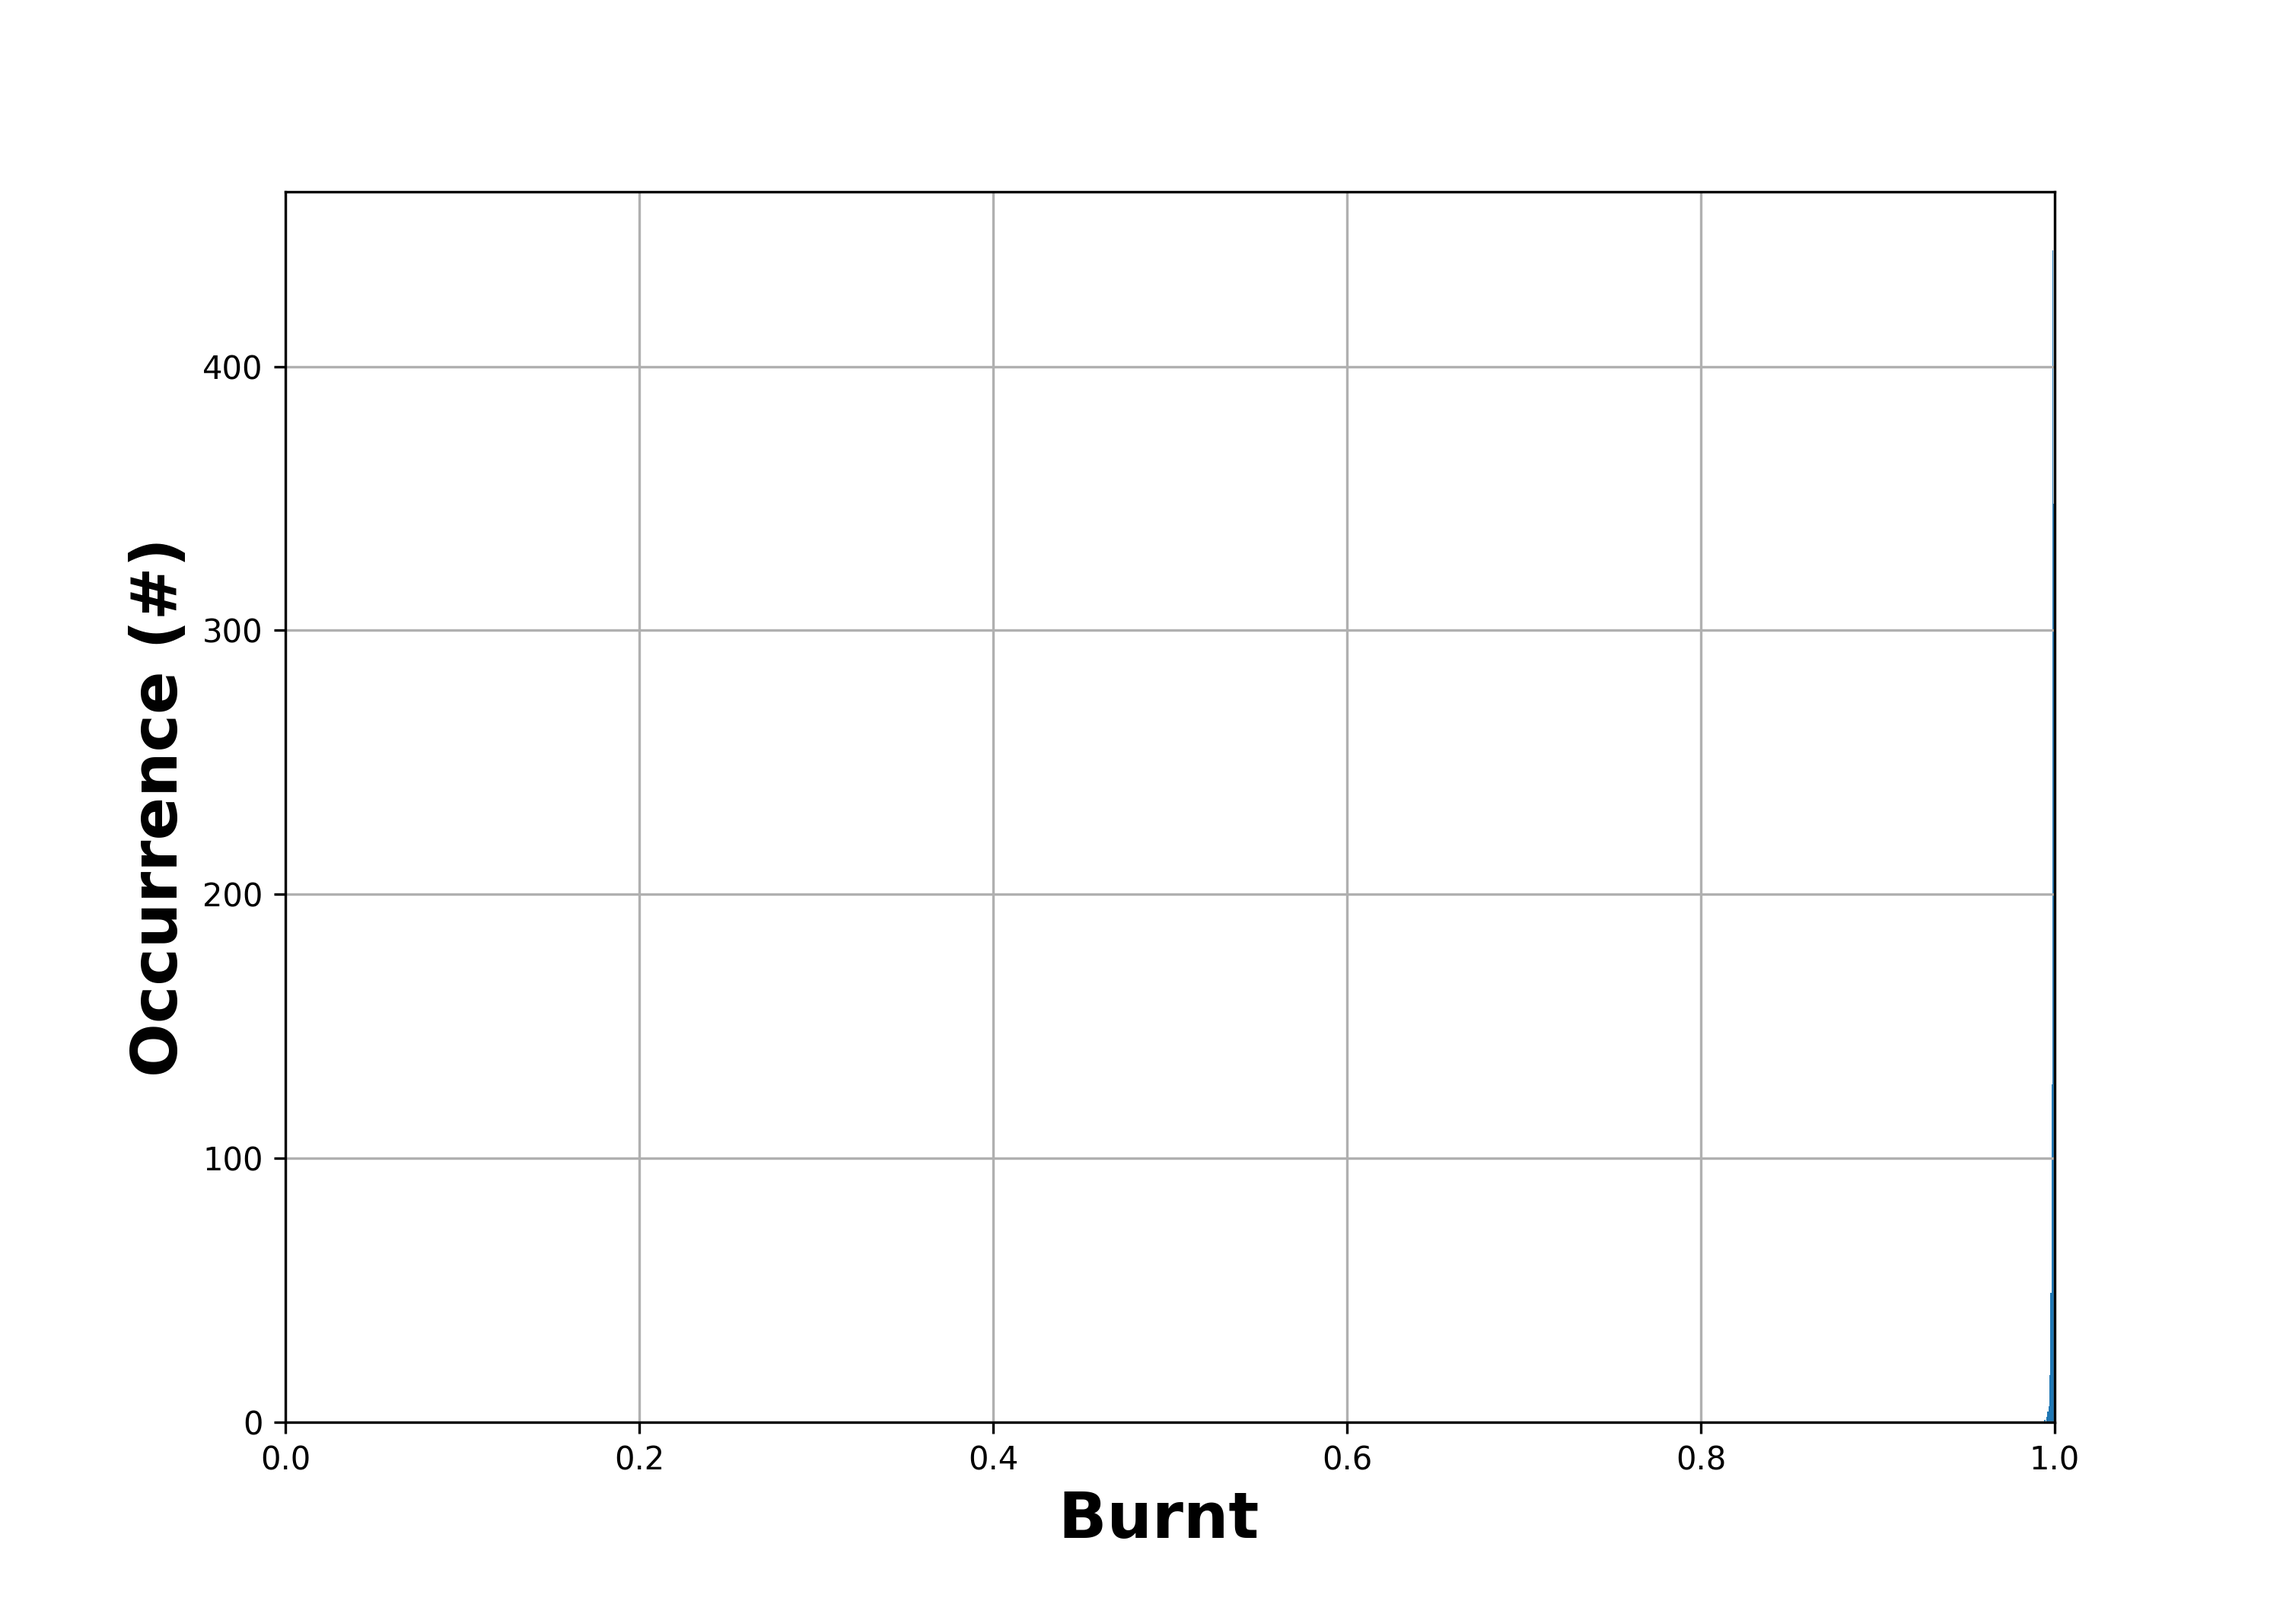
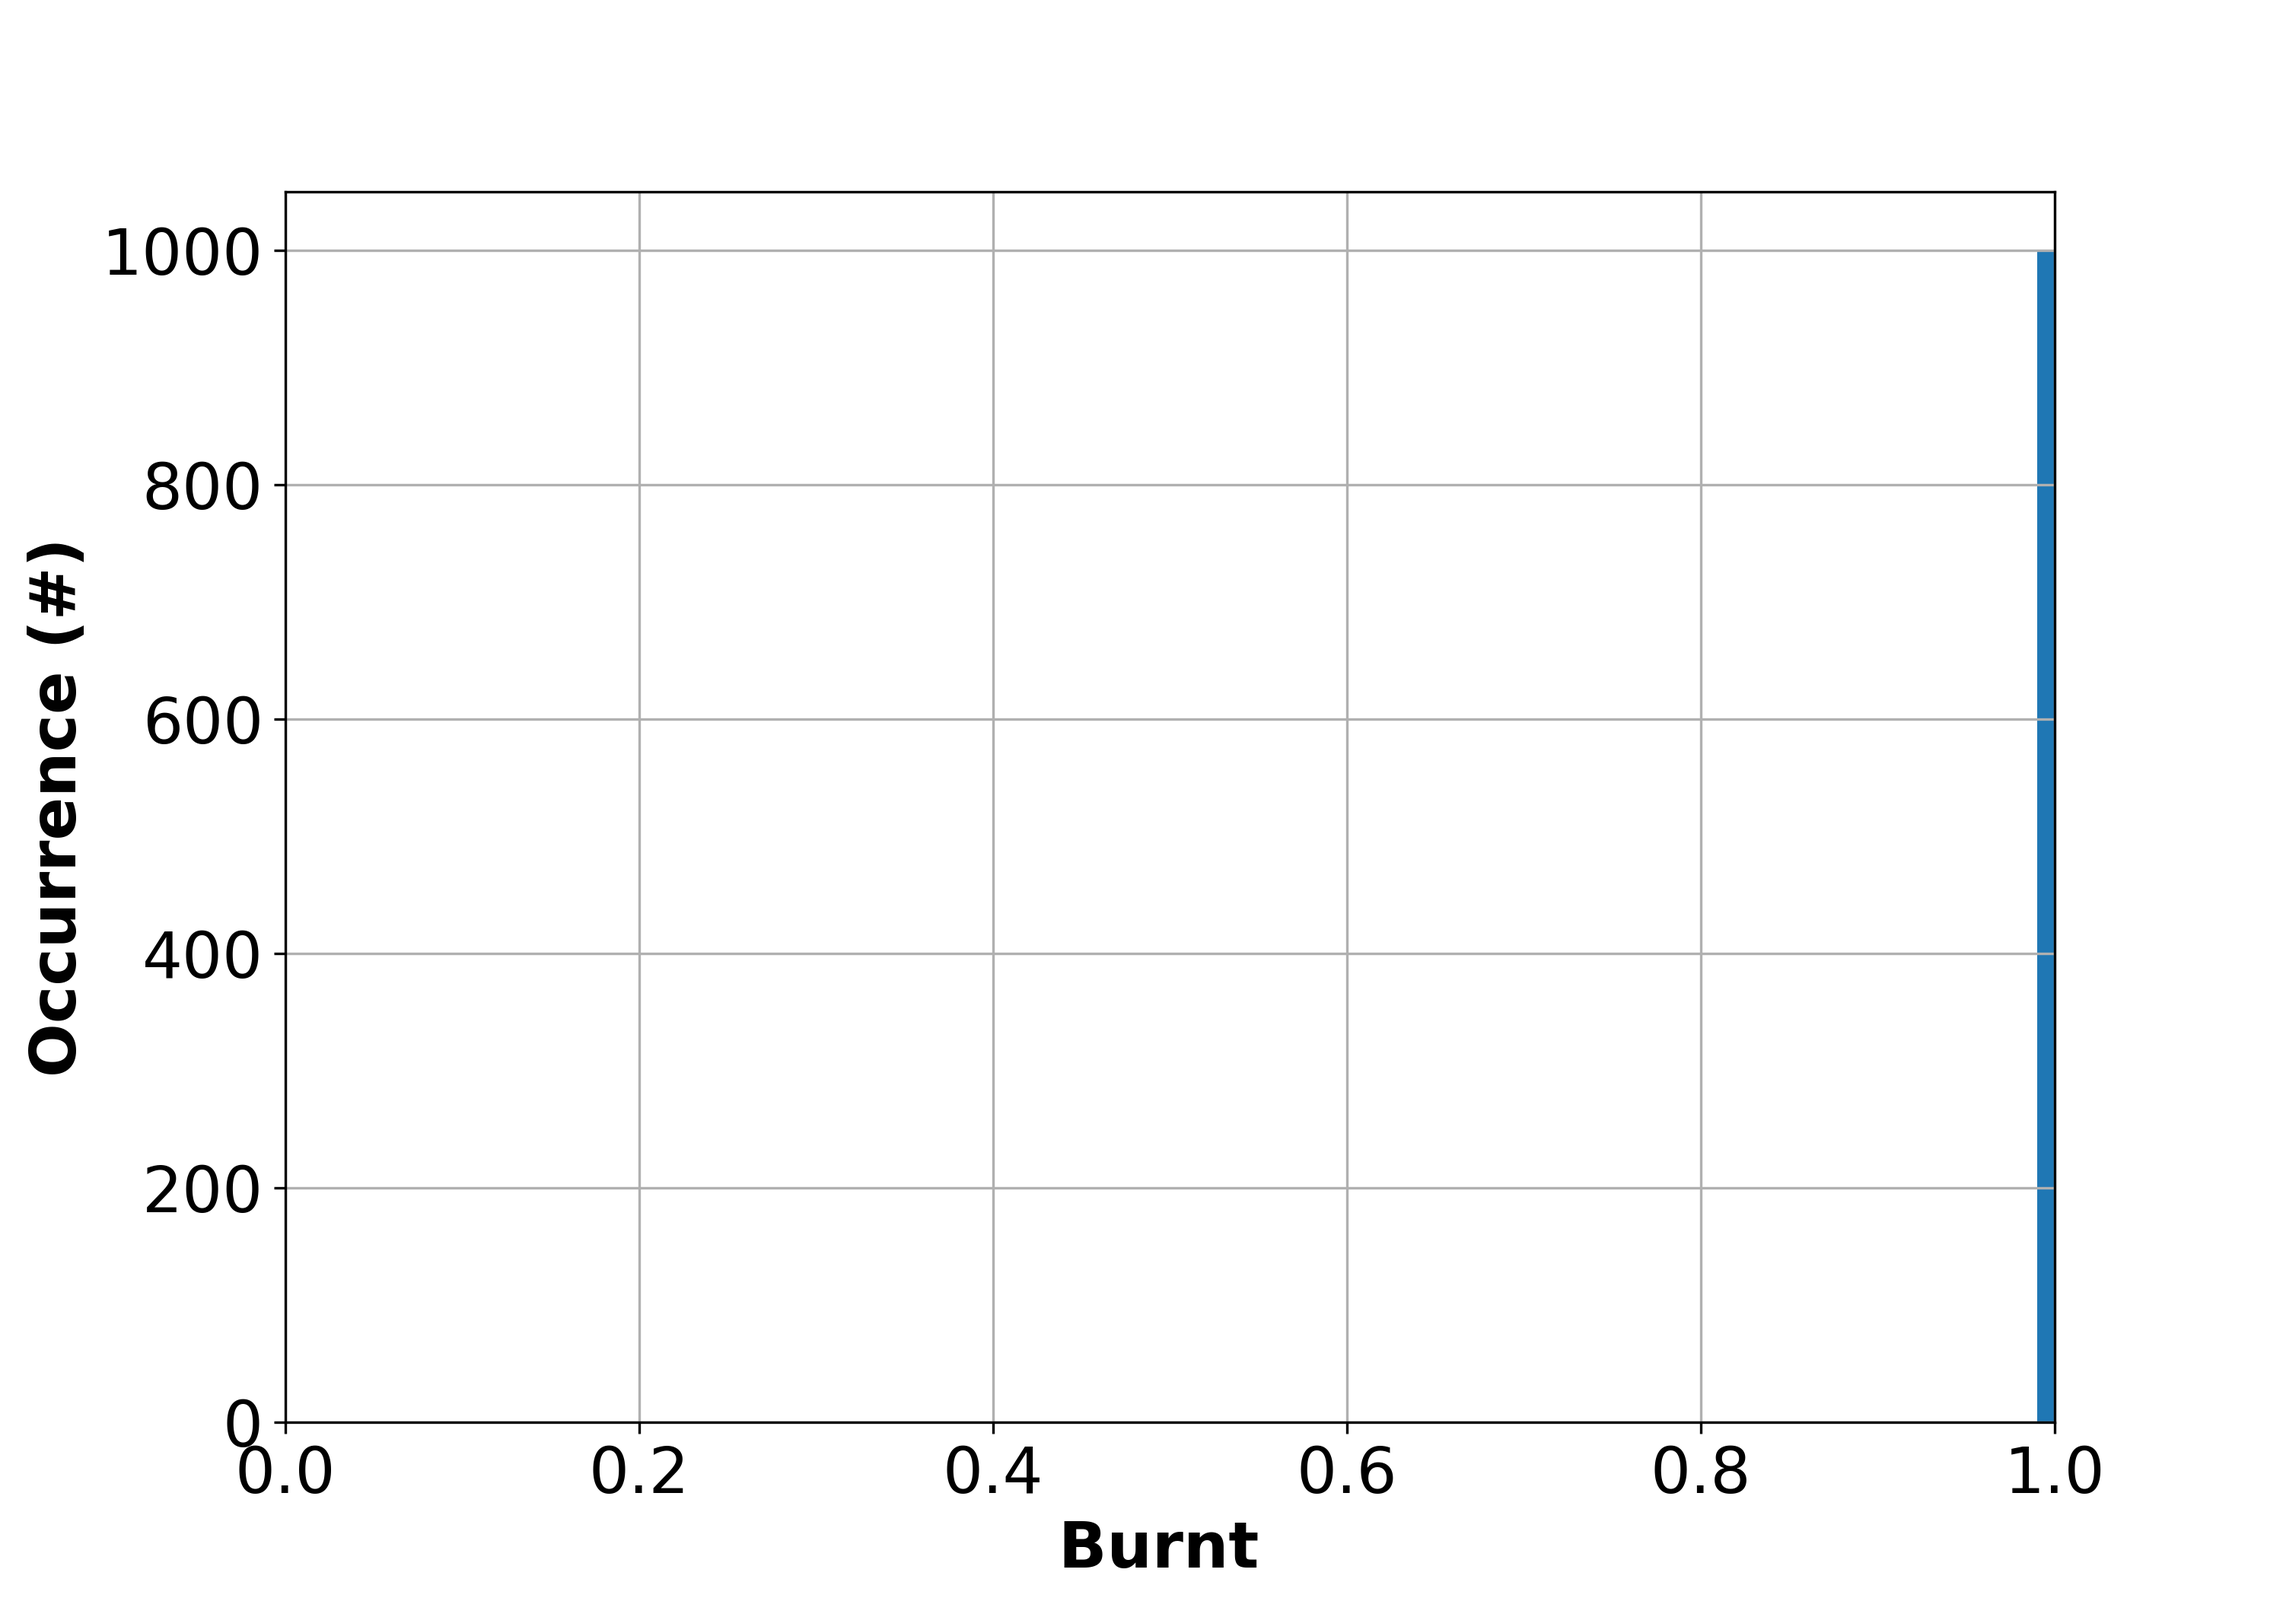
- Deleted the variable self.model.trees_on_fire

diff --git a/src/sensitivity_analysis/ofat_sa.py b/src/sensitivity_analysis/ofat_sa.py
@@ -10,13 +10,14 @@ Louis Weyland & Robin van den Berg, Philippe Nicolau, Hildebert Mouilé & Wiebe 
 
 import sys
 sys.path.append('../')
+import pandas as pd
 import os
 from mesa.batchrunner import BatchRunnerMP
 import numpy as np
 from forestfiremodel_sa import ForestFire
 import matplotlib.pyplot as plt
 import time
-
+'''
 begin = time.time()
 
 
@@ -132,20 +133,45 @@ print("Variance of the number of extinguished trees: ", data["truck_strategy"]["
 
 print("Mean of the number of burned trees: ", data["truck_strategy"]["On Fire"].mean())
 print("Variance of the number of burned trees: ", data["truck_strategy"]["On Fire"].var())
-
+'''
 # To plot histogram
-print(data["truck_strategy"]["On Fire"])
-hist = data["truck_strategy"]["On Fire"].hist()
-hist.set_xlabel("Burnt ", fontweight='bold', fontsize=20)
-hist.set_ylabel("Occurrence (#)", fontweight='bold', fontsize=20)
+directory = os.chdir("data/")
+file_name = ["truckstrategy_0_ofat_truck_strategy___repli_1000__dist_samp_1.csv",
+             "truckstrategy_1_ofat_truck_strategy___repli_1000__dist_samp_1.csv",
+             "truckstrategy_2_ofat_truck_strategy___repli_1000__dist_samp_1.csv",
+             "truckstrategy_3_ofat_truck_strategy___repli_1000__dist_samp_1.csv",
+             "truckstrategy_4_ofat_truck_strategy___repli_1000__dist_samp_1.csv"]
 
-plt.savefig("hist_truckstrategy_{}_ofat_{}___repli_{}__dist_samp_{}.png".\
-              format(truck_strategy, var, replicates, distinct_samples), dpi=300)
+
+for i in file_name:
+
+    data=pd.read_csv(i)
+
+    f, axs = plt.subplots(1, figsize=(10, 7))
 
 
-print("Mean of the number of steps to end: ", data["truck_strategy"]["Step"].mean())
-print("Variance of the number of steps to end: ", data["truck_strategy"]["Step"].var())
+    if i =='truckstrategy_0_ofat_truck_strategy___repli_1000__dist_samp_1.csv' or \
+            i=='truckstrategy_4_ofat_truck_strategy___repli_1000__dist_samp_1.csv':
 
-end = time.time()
+        hist = data["On Fire"].hist(range=(0.90,1))
 
-print("This took: ", (end - begin))
+    else:
+        hist = data["On Fire"].hist()
+
+    hist.set_xlabel("Burnt ", fontweight='bold', fontsize=20)
+    hist.set_ylabel("Occurrence (#)", fontweight='bold', fontsize=20)
+    axs.xaxis.set_tick_params(labelsize=20)
+    axs.yaxis.set_tick_params(labelsize=20)
+    plt.xlim(0, 1)
+   
+    #plt.savefig("hist_truckstrategy_{}_ofat_{}___repli_{}__dist_samp_{}.png".\
+    #              format(truck_strategy, var, replicates, distinct_samples), dpi=300)
+    name= i.split(".")
+    plt.savefig("hist_"+name[0], dpi=300)
+
+#print("Mean of the number of steps to end: ", data["truck_strategy"]["Step"].mean())
+#print("Variance of the number of steps to end: ", data["truck_strategy"]["Step"].var())
+
+#end = time.time()
+
+#print("This took: ", (end - begin))

diff --git a/src/environment/vegetation.py b/src/environment/vegetation.py
@@ -63,7 +63,7 @@ class TreeCell(Agent):
         '''
         self.trees_claimed = 0
         if self.condition == "On Fire":
-            self.model.trees_on_fire += 1
+            #self.model.trees_on_fire += 1
             if self.fireinitstep != self.model.current_step:
                 neighbors = self.model.grid.get_neighbors(self.pos, moore=True, radius=1)
                 for neighbor in neighbors:
